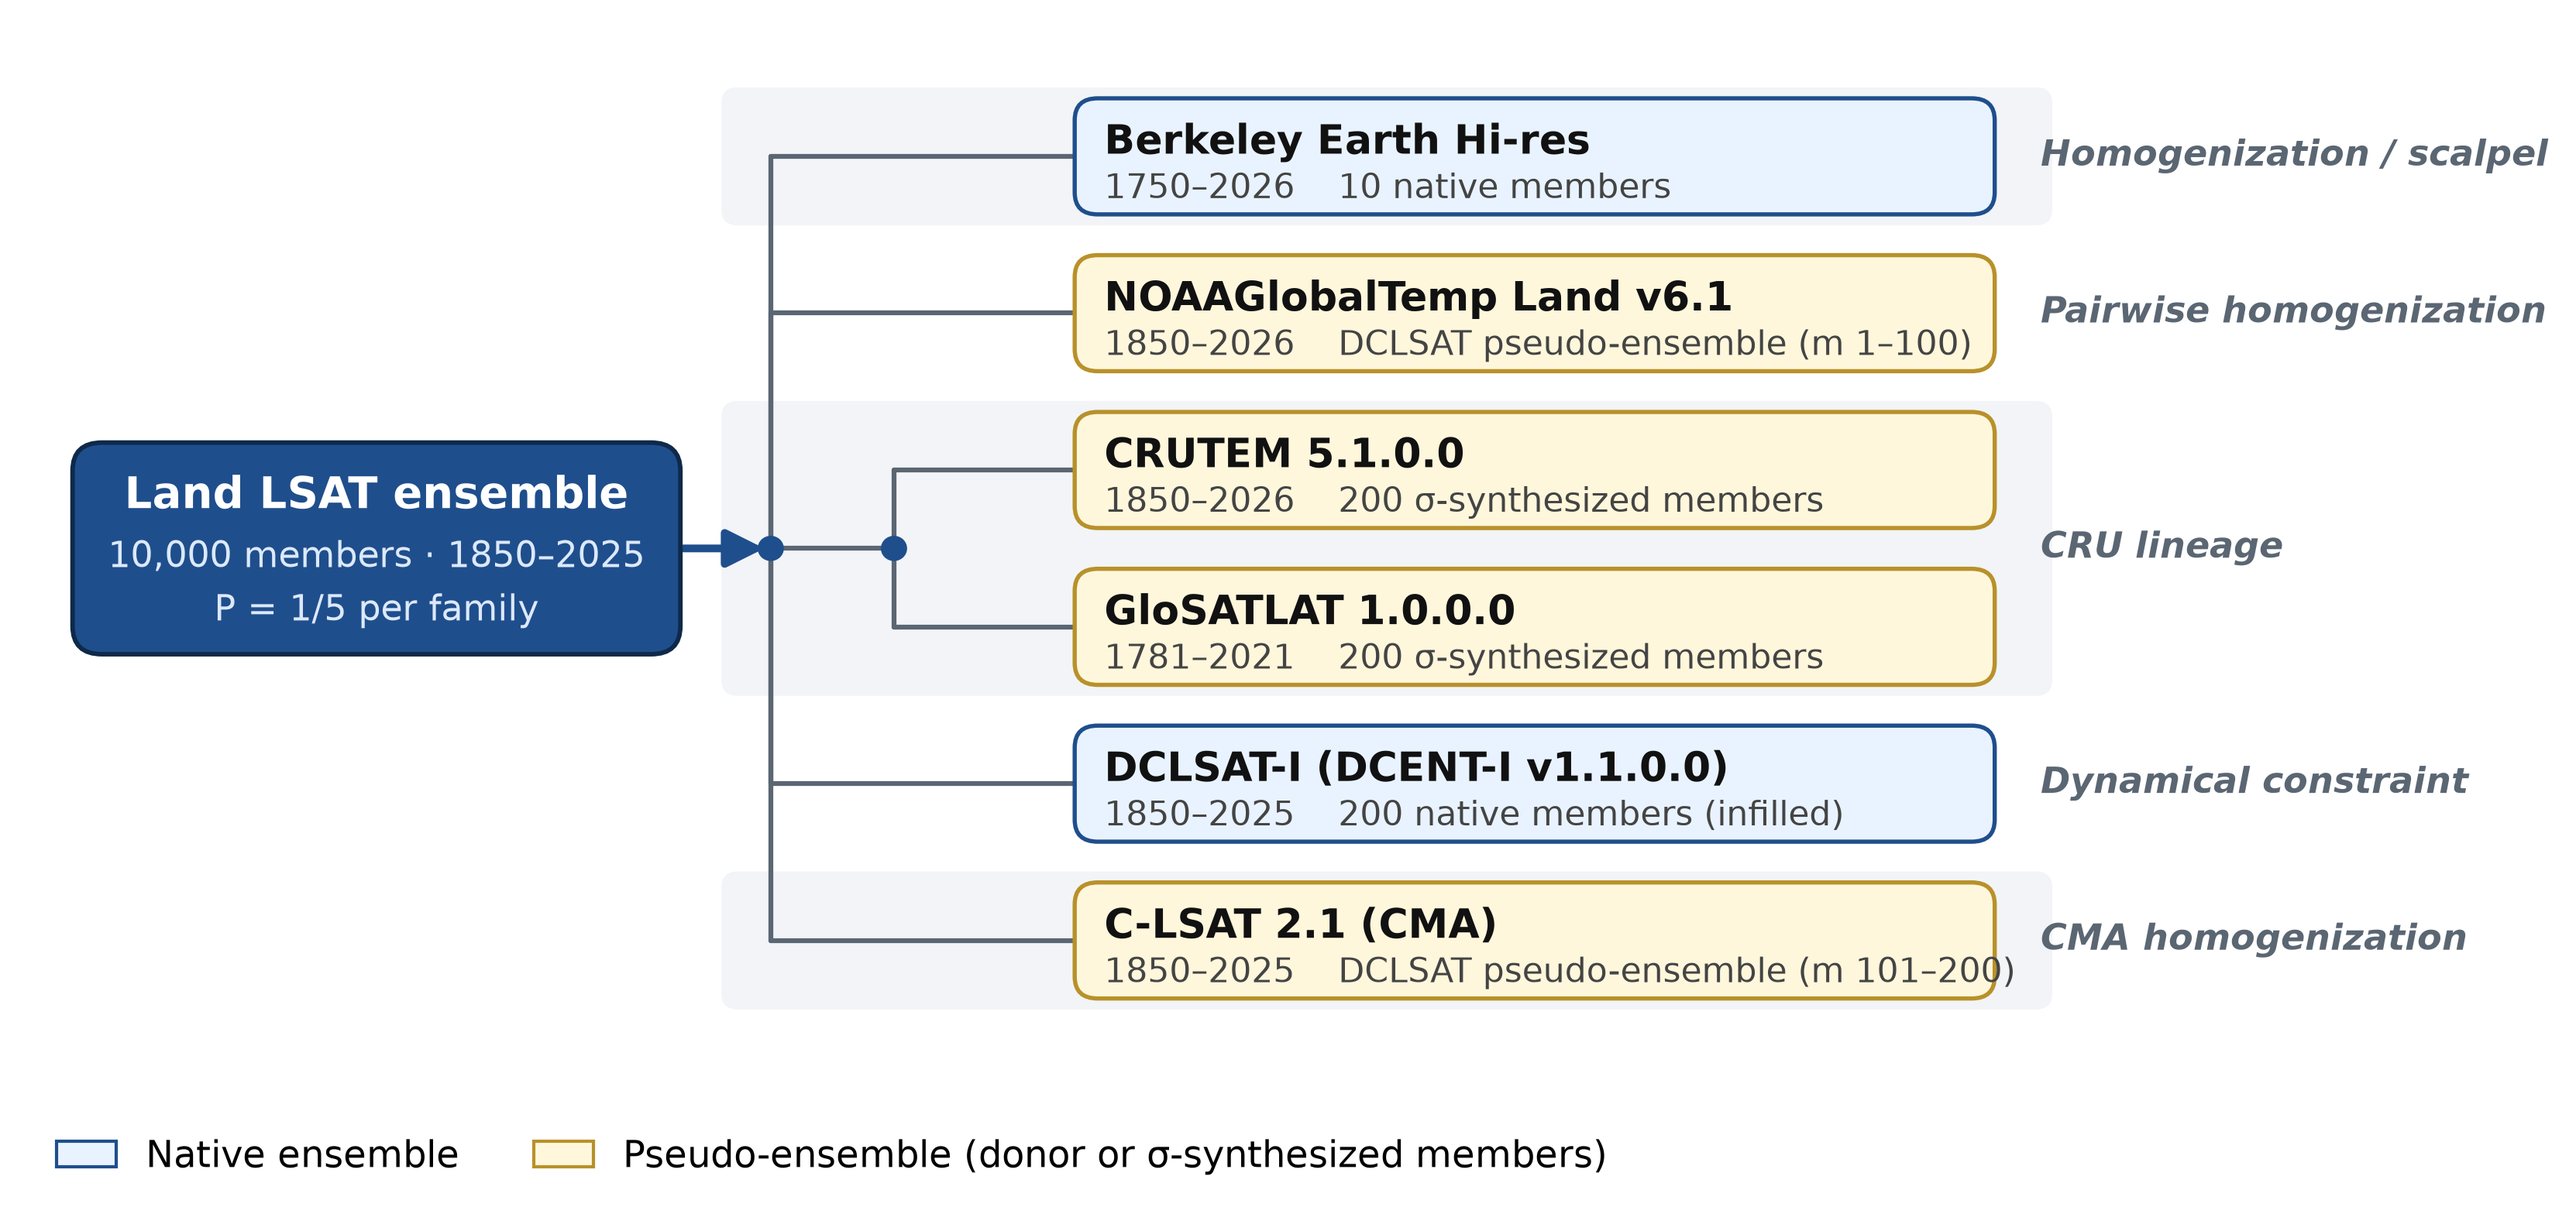
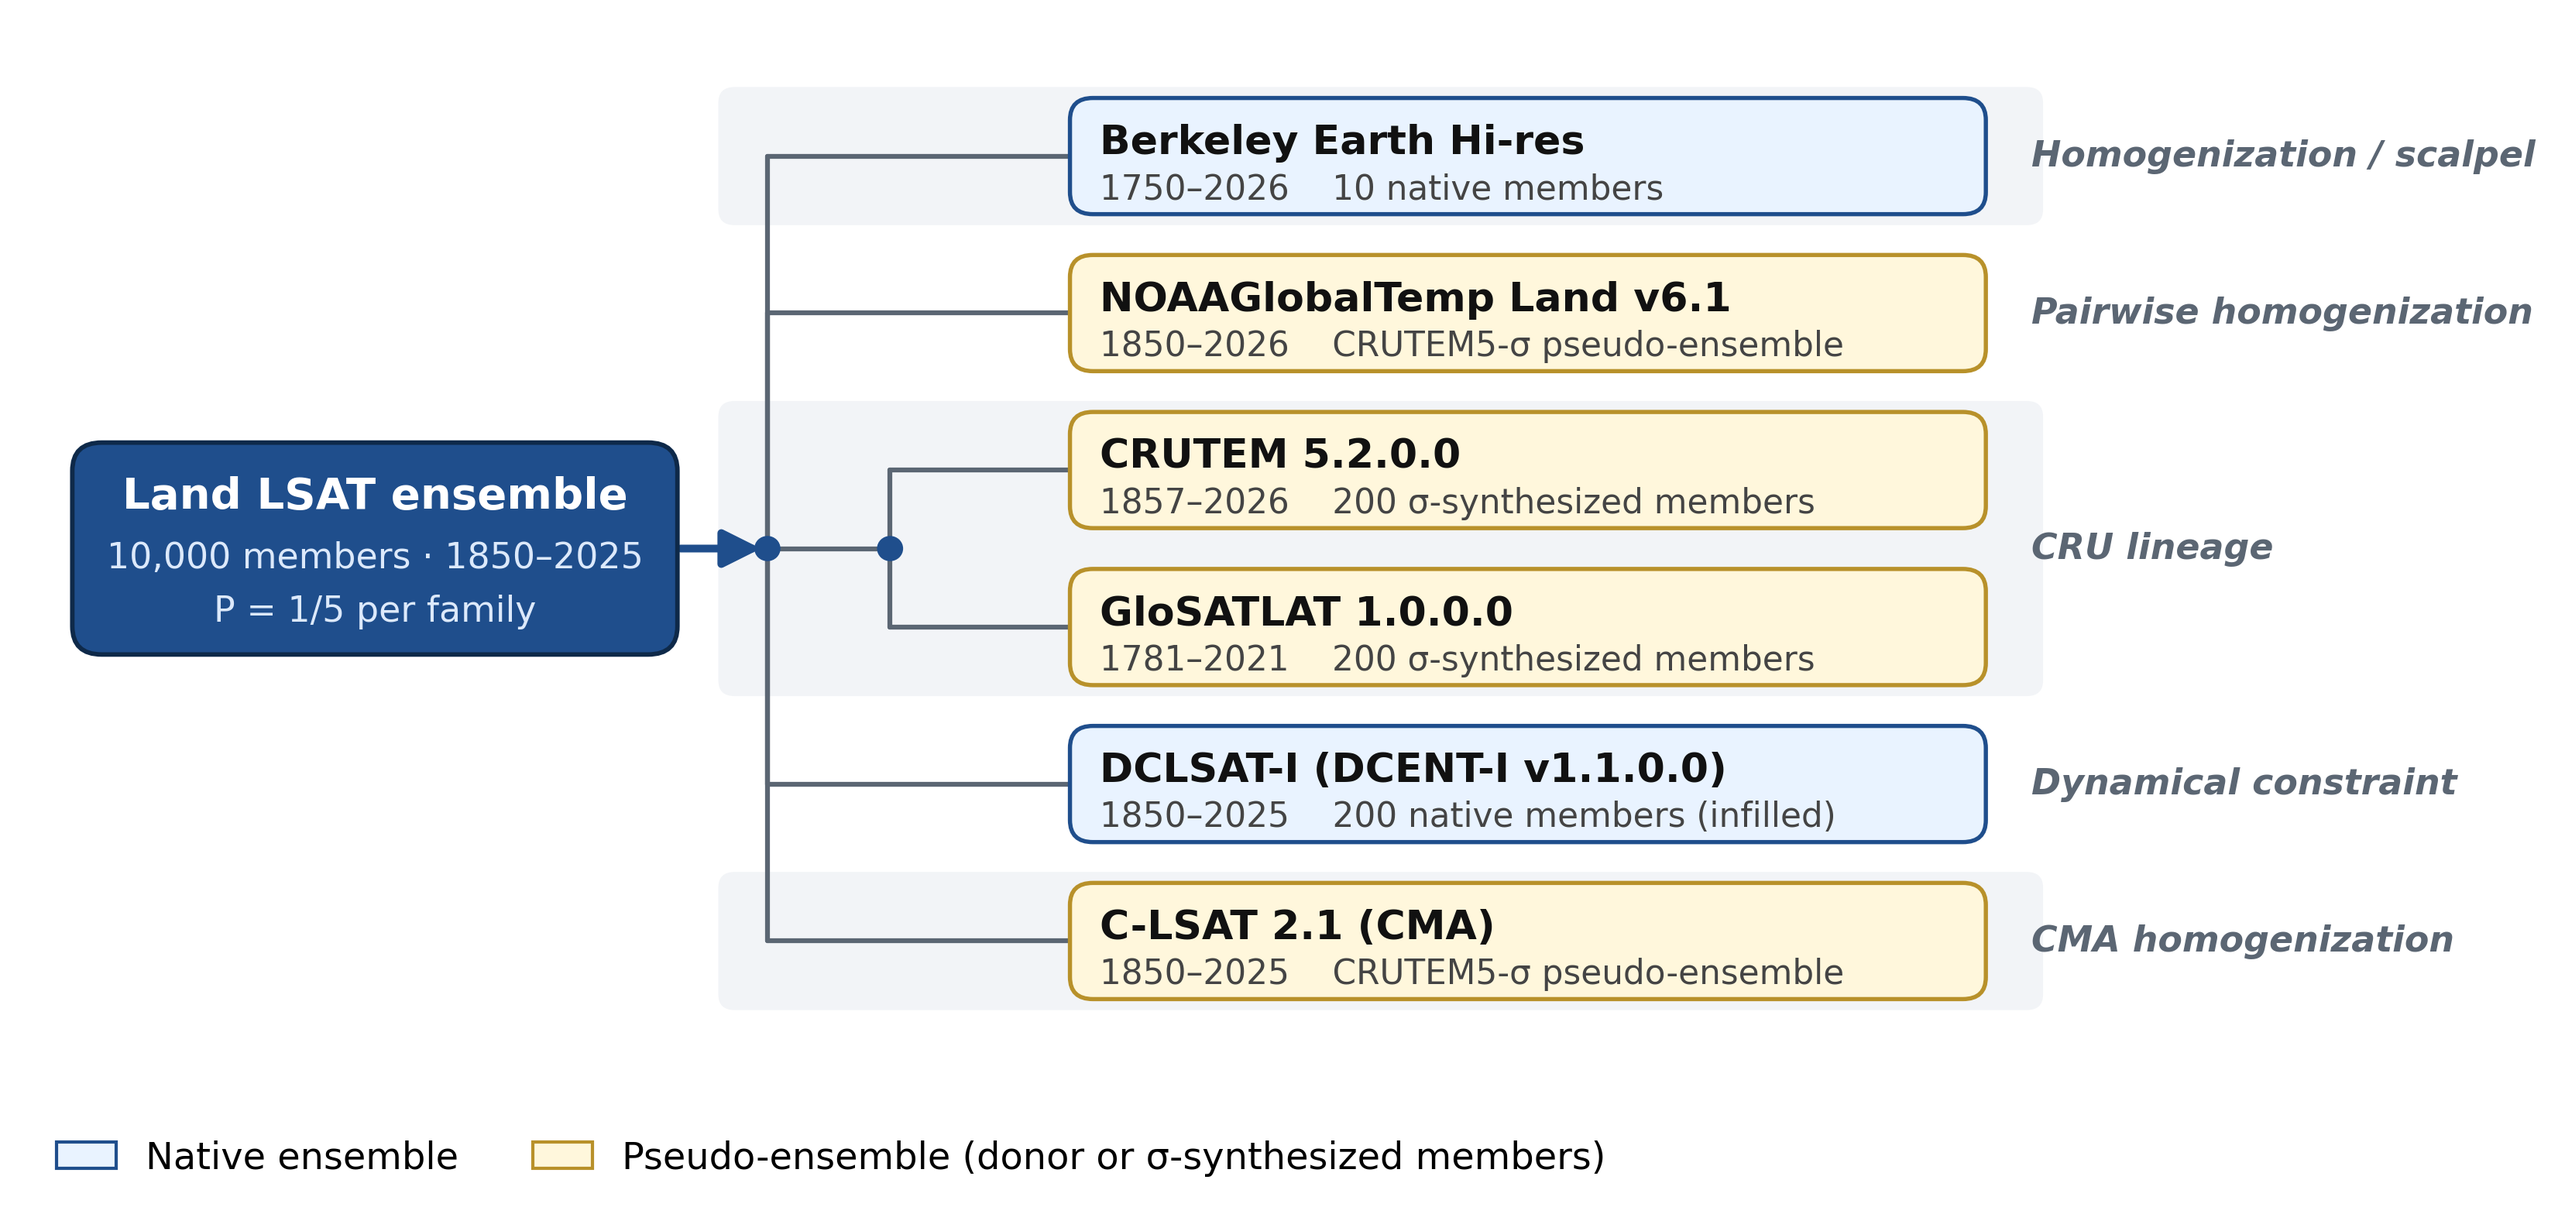
Family tree: CRUTEM 5.2.0.0; NOAA Land / C-LSAT labelled as CRUTEM5-sigma pseudo-ensembles

diff --git a/plot_family_trees.py b/plot_family_trees.py
@@ -46,11 +46,11 @@ OCEAN_FAMILIES = ["HadSST", "ERSST", "COBE", "Dynamical constraint"]
 
 LAND_LEAVES = {
     "berkeley_earth": ("Berkeley Earth Hi-res",       "1750–2026", "10 native members"),
-    "noaa_land":      ("NOAAGlobalTemp Land v6.1",    "1850–2026", "DCLSAT pseudo-ensemble (m 1–100)"),
-    "crutem5":        ("CRUTEM 5.1.0.0",              "1850–2026", "200 σ-synthesized members"),
+    "noaa_land":      ("NOAAGlobalTemp Land v6.1",    "1850–2026", "CRUTEM5-σ pseudo-ensemble"),
+    "crutem5":        ("CRUTEM 5.2.0.0",              "1857–2026", "200 σ-synthesized members"),
     "glosatlat":      ("GloSATLAT 1.0.0.0",           "1781–2021", "200 σ-synthesized members"),
     "dclsat":         ("DCLSAT-I (DCENT-I v1.1.0.0)", "1850–2025", "200 native members (infilled)"),
-    "c_lsat":         ("C-LSAT 2.1 (CMA)",            "1850–2025", "DCLSAT pseudo-ensemble (m 101–200)"),
+    "c_lsat":         ("C-LSAT 2.1 (CMA)",            "1850–2025", "CRUTEM5-σ pseudo-ensemble"),
 }
 
 OCEAN_LEAVES = {
